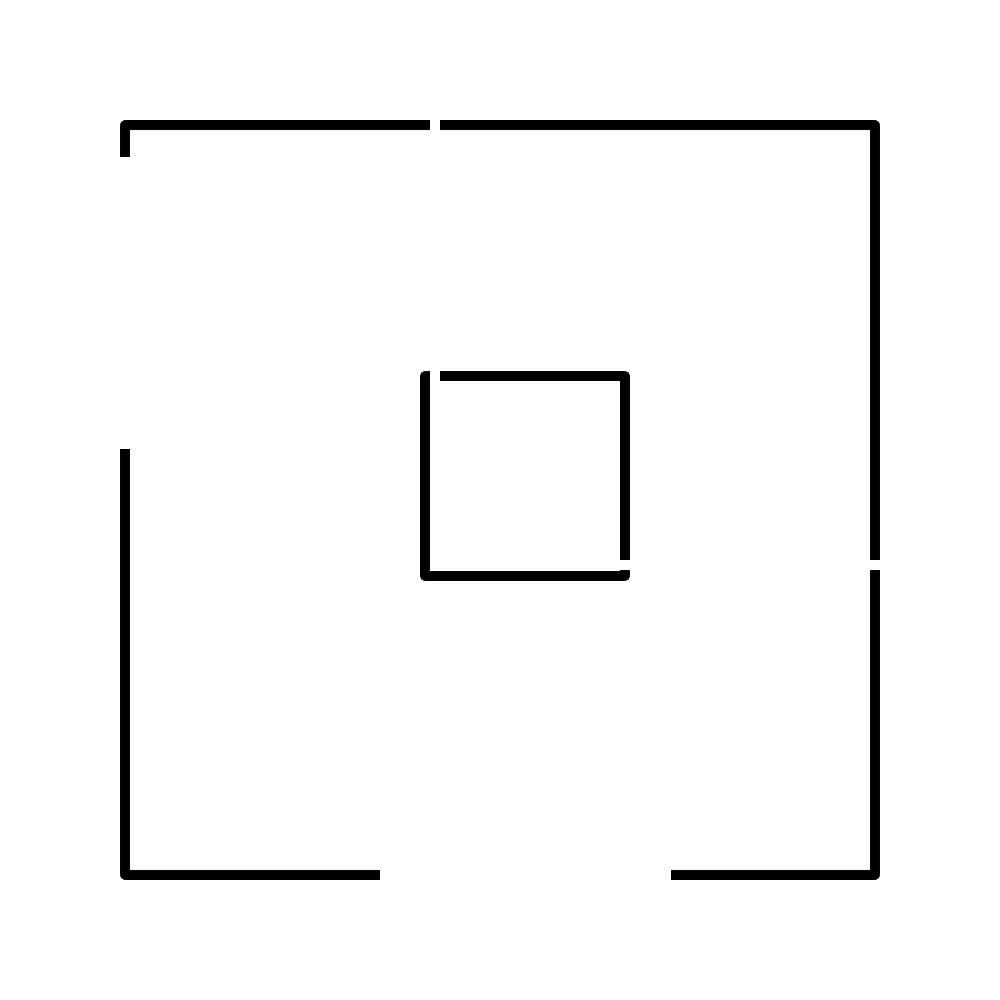
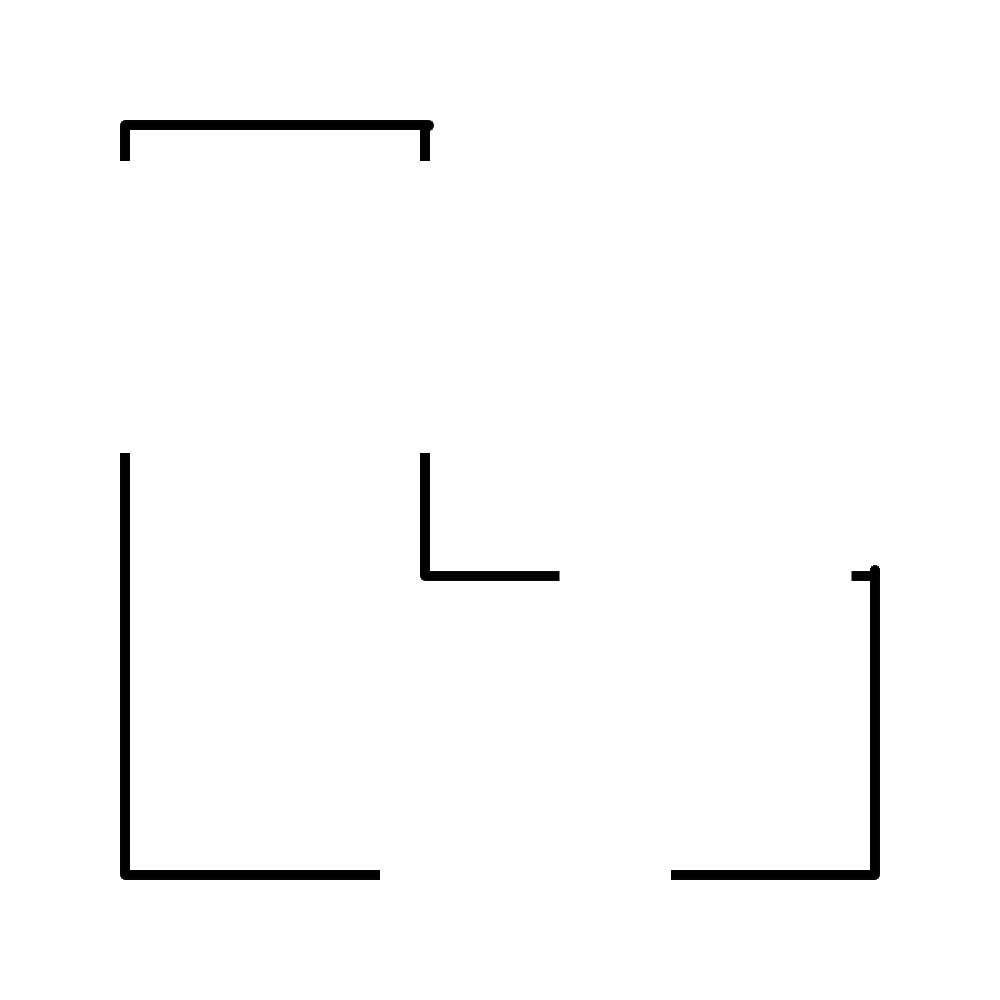
test files and improvements

Changed region(s): [[0.403, 0.093, 0.899, 0.558], [0.403, 0.372, 0.651, 0.589], [0.837, 0.558, 0.868, 0.589]]

diff --git a/Tests.py b/Tests.py
@@ -1,0 +1,33 @@
+from Software.RouteFinding.PictureProcessing import pp_module as pp
+from Software.RouteFinding.PictureProcessing import opencv_wrapper as wo_cv2
+from Software.RouteFinding.PictureProcessing import matplot_wrapper as wo_plt
+from Software.RouteFinding.PathFinding import pf_module as pf
+from Software.RouteFinding.Data import symposium_map as d
+import numpy as np
+import matplotlib.pyplot as plt
+
+def DebugPathFinding():
+    # img_label, _ = pp.ReadImage("Software/RouteFinding/Data/symposium_map.jpg")
+    img, edged = pp.ReadImage("Software/RouteFinding/Data/symposium_map.jpg")
+    tVertInd = pp.CreateNavMesh(edged)
+    tIds = pp.GetTriangles(tVertInd)
+
+    ## Get user input 
+    s = raw_input("Enter starting room: ")
+    e = raw_input("Enter destination room: ")
+
+    start = d.rooms[s][0] ## returns a list, take first value
+    end = d.rooms[e][0]
+
+    ## Run A* 
+    coordinates, path, _ = pf.FindPath(tIds, start, end)
+    instructions = pf.GetInstructions(coordinates, d.mapScale*d.strideMen)
+
+    imgLines = wo_cv2.DrawLines(coordinates, img.copy(), 3)
+    imgFinal = wo_cv2.DrawCircles((start, end), imgLines, 3)
+    wo_cv2.DisplayImage('Final image', imgFinal)    
+    # wo_plt.DrawTriangles(tIds, path, 'hide')
+    # wo_plt.ScatterPoints(coordinates, 'purple')
+    # wo_plt.ShowPlot()
+
+DebugPathFinding()

diff --git a/Software/RouteFinding/PathFinding/pf_module.py b/Software/RouteFinding/PathFinding/pf_module.py
@@ -257,6 +257,32 @@ def Optimizer(tIds, path, start, dest):
 
     return optPath
 
+def Digitize(tIds, path, start, dest):
+    coords = []
+    coords.append(start)
+
+    del path[0]
+    del path[len(path)-1]
+
+    current = start
+    for i in range(len(path)):
+        t = tIds[path[i]].GetMidpoint()
+
+        grad, _, _ = gradient(current, t)
+
+        if i == 0 or grad != 1:
+            coords.append((t[0], current[1]))
+        elif grad: ## move y first
+            coords.append((current[0], t[1]))
+            
+
+        current = t
+        coords.append(current)
+    
+    coords.append((current[0], dest[1]))
+    coords.append(dest)
+    return coords
+
 def FindPath(tIds, current, dest):
     '''
     High level function
@@ -276,7 +302,8 @@ def FindPath(tIds, current, dest):
     dist: the total distance from current to dest using the above coordinates
     '''
     path, dist = FindPolygonsInPath(tIds, current, dest)
-    coordinates = Optimizer(tIds, path, current, dest)
+    coordinates = Digitize(tIds, path, current, dest)
+    # coordinates = Optimizer(tIds, path, current, dest)
     return coordinates, path, dist
 
 def getTurn(p1, p2, p3):

diff --git a/Software/RouteFinding/PictureProcessing/pp_module.py b/Software/RouteFinding/PictureProcessing/pp_module.py
@@ -1,10 +1,13 @@
 # import matplotlib.pyplot as plt ## for debugging CreateNavMesh
 import numpy as np
 import triangle as tr
+# import opencv_wrapper as cv_wpr
+# import polygon as nvs_p
 from Software.RouteFinding.PictureProcessing import opencv_wrapper as cv_wpr
 from Software.RouteFinding.PictureProcessing import polygon as nvs_p ## navspex polygon
 # import matplot_wrapper as plt_wpr
 import math as m
+import matplotlib.pyplot as plt
 
 '''
 Notes:
@@ -143,9 +146,9 @@ def LoadData(path):
     tIds = GetTriangles(tVertInd)
     return tIds
 
-## for debugging only
+# # for debugging only
 # if __name__ == "__main__":
-#         img, edged = ReadImage("../data/e5_4f_nolabel.jpg")
+#         img, edged = ReadImage("../Data/symposium_map.jpg")
 #         tVertInd = CreateNavMesh(edged)
 #         tIds = GetTriangles(tVertInd)
 #         # print(hard_edges)

diff --git a/Software/RouteFinding/Data/symposium_map.py b/Software/RouteFinding/Data/symposium_map.py
@@ -4,14 +4,14 @@ strideMen = 0.7622 ## meters per male stride
 strideWomen = 0.671 ## meters per female stride
 
 rooms = {
-	"Entrance": [(430, 250)],
-	"Room1": [(125, 466)],
+	"Entrance": [(420, 250)],
+	"Room1": [(125, 316)],
 	"Room2": [(535, 874)],
-	"Exit": [(754, 565)]
+	"Exit": [(754, 586)]
 }
 
 ## contours list
 l = [
 		[(124, 124), (124, 875), (875, 875) , (875, 124)],
-		[(424, 376), (424, 576), (625, 576), (625, 376)]
+		[(424, 125), (424, 576), (874, 576), (874, 125)]
 ]

diff --git a/Software/RouteFinding/PictureProcessing/opencv_wrapper.py b/Software/RouteFinding/PictureProcessing/opencv_wrapper.py
@@ -66,8 +66,8 @@ def GetRelevantContours(edges):
         # ]
         
         rec_coords = [
-                [(124, 124), (124, 875), (875, 875) , (875, 124)],
-		[(424, 376), (424, 576), (625, 576), (625, 376)]
+		[(124, 124), (124, 875), (875, 875) , (875, 124)],
+		[(424, 125), (424, 576), (874, 576), (874, 125)]
         ]
         
         return rec_coords
